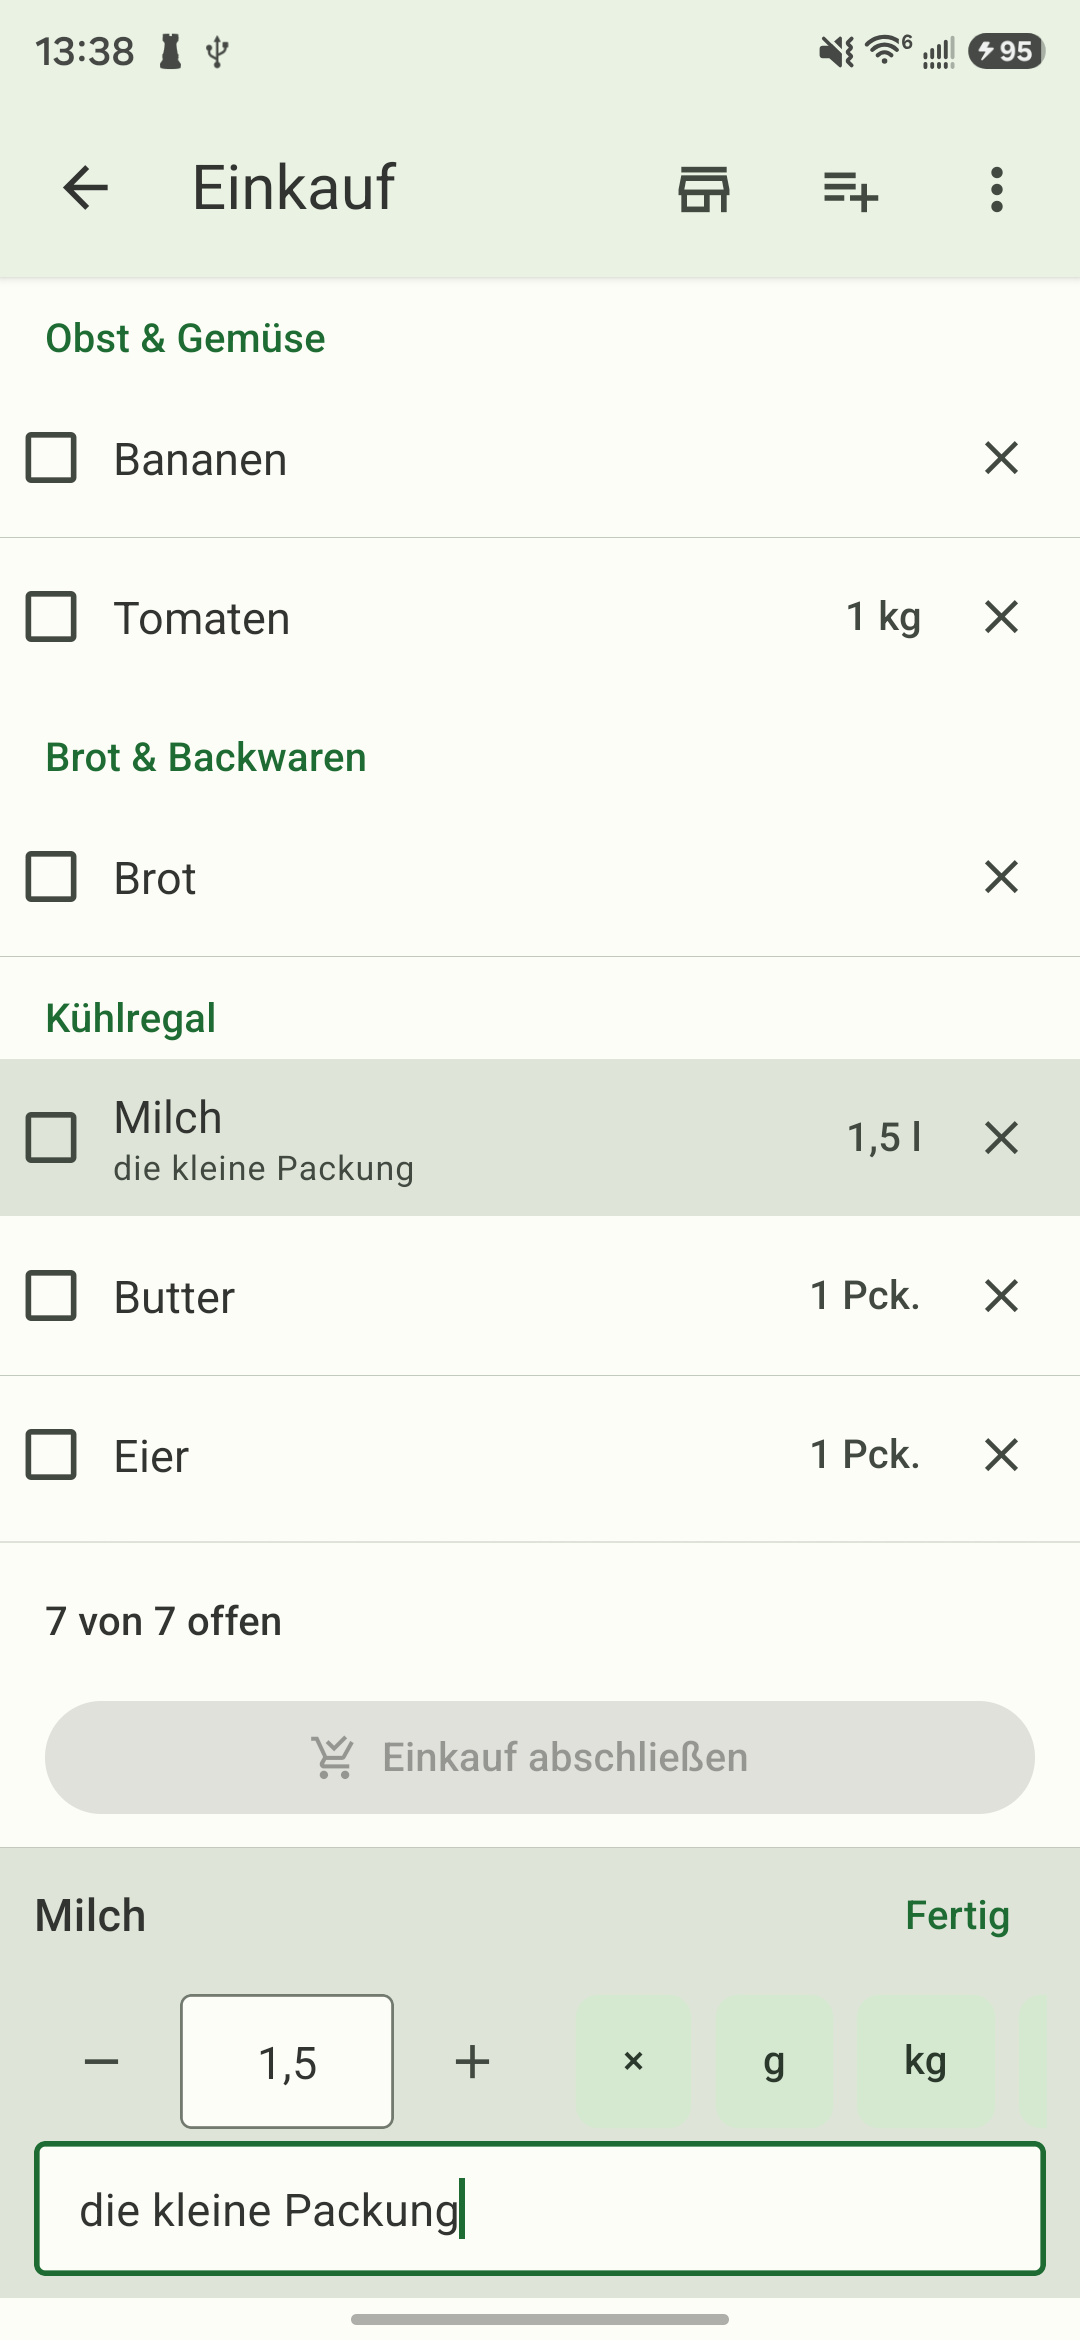
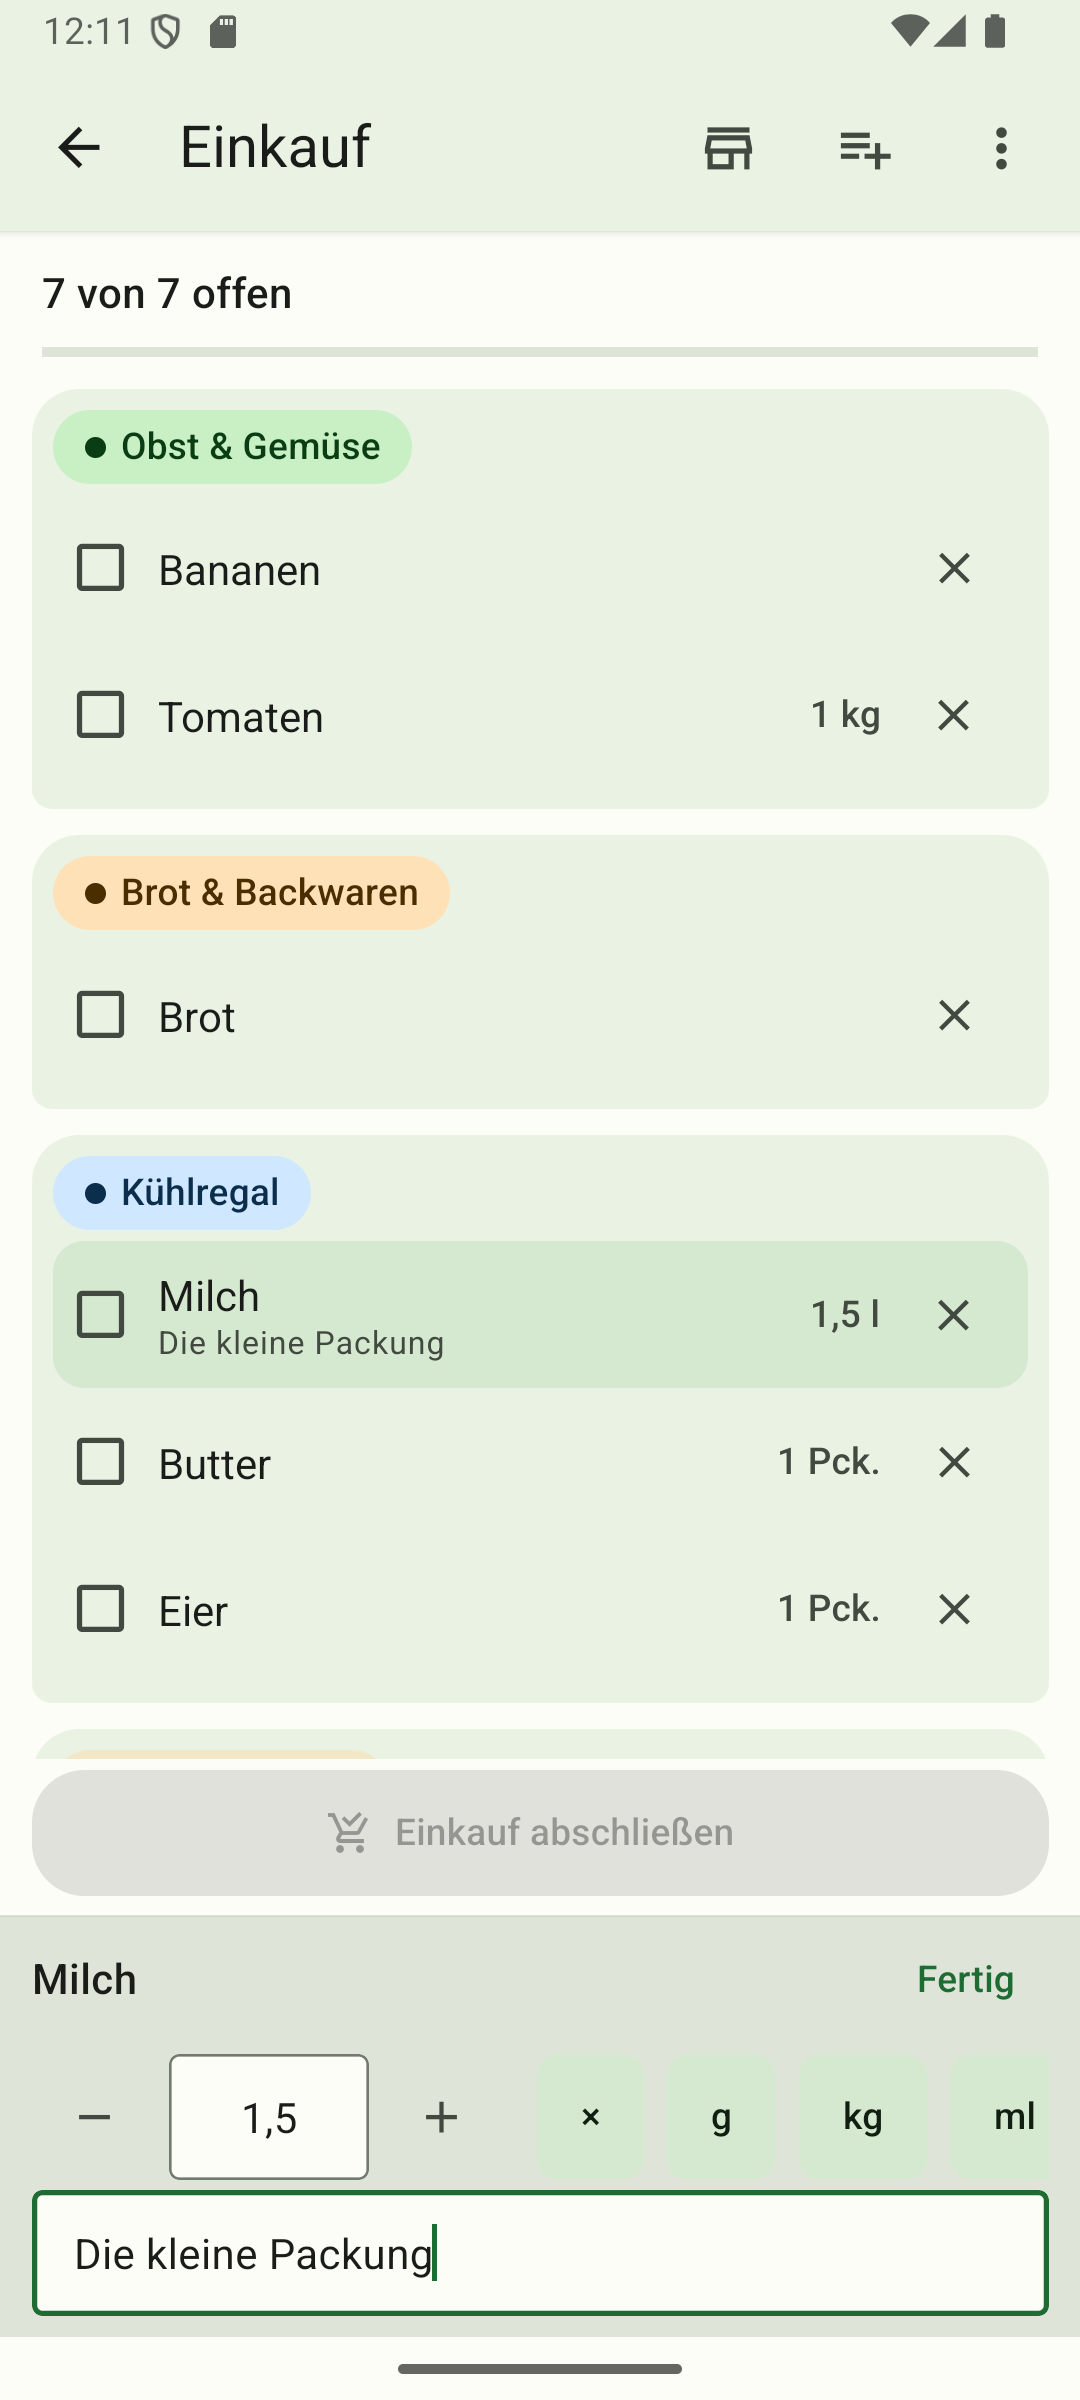
Neu-Knoepfe einheitlich orange, Store- und Onepager-Bilder im M18-Aussehen
- "Neues Gericht" und "Neues Produkt" tragen jetzt wie "Neue Liste" die
  Tertiaer-Rolle; ADR-049 nennt alle drei.
- store/: 18 neue Aufnahmen vom Emulator (1080 x 2400), neun hell und neun
  dunkel. Neu sind Vorrat (8) und Rezepte (9) - bisher zeigte kein Store-Bild
  die V2-Funktionen. store/screenshots.yaml nimmt beide mit auf und warnt
  davor, den Flow ohne --device laufen zu lassen, wenn das Telefon an adb
  haengt (clearState).
- docs/bilder/: alle Onepager-Bilder getauscht, drei neue in der Galerie
  (Uebersicht, Vorrat, Rezepte); Telefonrahmen auf 540/1200.
- store-eintrag.md: Quelle der Bilder, Auswahl-Empfehlung fuer die acht
  Plaetze im Play Store.

Gates: typecheck, lint, 562 Unit-Tests, 16/16 E2E-Flows auf dem Emulator.

diff --git a/docs/index.html b/docs/index.html
@@ -369,7 +369,7 @@
       .telefon {
         position: absolute;
         width: clamp(11rem, 20vw, 16rem);
-        aspect-ratio: 540 / 1170;
+        aspect-ratio: 540 / 1200;
         border-radius: 2rem;
         padding: 0.45rem;
         background: #0e100d;
@@ -1201,6 +1201,36 @@
                 />
               </div>
               <figcaption>Im Laden: abgehakt, mit Notiz</figcaption>
+            </figure>
+            <figure>
+              <div class="telefon">
+                <img
+                  src="bilder/uebersicht-hell.png"
+                  alt="Übersicht mit zwei Listen als Karten mit Farbleiste, heller Modus"
+                  loading="lazy"
+                />
+              </div>
+              <figcaption>Alle Listen, mit Farbleiste je Abteilung</figcaption>
+            </figure>
+            <figure>
+              <div class="telefon">
+                <img
+                  src="bilder/vorrat-hell.png"
+                  alt="Vorrat mit Abteilungen auf farbigen Flächen, heller Modus"
+                  loading="lazy"
+                />
+              </div>
+              <figcaption>Der Vorrat: was da ist, je Abteilung</figcaption>
+            </figure>
+            <figure>
+              <div class="telefon">
+                <img
+                  src="bilder/rezepte-dunkel.png"
+                  alt="Rezepte mit Schildern für fehlende Zutaten, dunkler Modus"
+                  loading="lazy"
+                />
+              </div>
+              <figcaption>Rezepte: was fehlt, steht dran</figcaption>
             </figure>
             <figure>
               <div class="telefon">

diff --git a/src/features/recipes/components/RecipesScreen.tsx b/src/features/recipes/components/RecipesScreen.tsx
@@ -619,7 +619,10 @@ export function RecipesScreen({ withParam }: Props) {
         accessibilityLabel={t('recipes.create')}
         onPress={() => router.push({ pathname: '/rezept', params: { recipeId: NEW_RECIPE_ID } })}
         testID="recipe-create"
-        style={styles.fab}
+        // Orange wie jeder "Neu"-Knopf (ADR-049): eine Farbe fuer "hier entsteht
+        // etwas", auf allen drei Screens dieselbe.
+        color={theme.colors.onTertiaryContainer}
+        style={[styles.fab, { backgroundColor: theme.colors.tertiaryContainer }]}
       />
 
       <Portal>

diff --git a/src/features/catalog/components/ProductsScreen.tsx b/src/features/catalog/components/ProductsScreen.tsx
@@ -265,7 +265,10 @@ export function ProductsScreen() {
           setDraft({ id: null, name: query, categoryId: FALLBACK_CATEGORY_ID, isStaple: false })
         }
         testID="product-create"
-        style={styles.fab}
+        // Orange wie jeder "Neu"-Knopf (ADR-049): eine Farbe fuer "hier entsteht
+        // etwas", auf allen drei Screens dieselbe.
+        color={theme.colors.onTertiaryContainer}
+        style={[styles.fab, { backgroundColor: theme.colors.tertiaryContainer }]}
       />
 
       <Portal>

diff --git a/docs/decisions.md b/docs/decisions.md
@@ -1088,7 +1088,7 @@ Nach drei Monaten täglicher Nutzung wünscht sich der Auftraggeber ein moderner
 **Entscheidung**
 1. **Kategoriefarben sind eine Erweiterung des Themes, keine Ausnahme von der Regel.** Sie liegen in `src/theme/categoryColors.ts` als zwölf Paare `container`/`onContainer`, hell und dunkel, für die zwölf Kategorien des Startkatalogs. Das Theme-Objekt bekommt ein Feld `categories`; Bildschirme holen sich die Farbe über `categoryColorFor(theme.categories, categoryId)`. **Kein Bildschirm schreibt einen eigenen Farbwert.** Unbekannte Kategorien (vom Nutzer angelegt) bekommen die Farbe von „Sonstiges".
 2. **Jedes Paar hat einen Kontrasttest** (≥ 4,5 : 1, WCAG AA, wie FR-7.4), hell und dunkel, als Unit-Test neben `contrast.test.ts`. Ein Paar, das den Test nicht besteht, wird nicht gebaut.
-3. **Die dritte Rolle (tertiary) wird Orange** statt des bisher ungenutzten Blaugrün. Sie ist reserviert für das Besondere: neue Liste, „Fehlt n" bei Rezepten, Wochenplan-Markierung. Ein Akzent, nicht zwei.
+3. **Die dritte Rolle (tertiary) wird Orange** statt des bisher ungenutzten Blaugrün. Sie ist reserviert für das Besondere: die drei „Neu"-Knöpfe (Liste, Gericht, Produkt), „fehlt" bei Rezepten, Wochenplan-Markierung. Ein Akzent, nicht zwei.
 4. **Kategoriefarben nur dort, wo Abteilungen die Struktur sind:** Liste, Vorrat, Listenkarten in der Übersicht. Rezepte bleiben bei Grün und Orange – dort ist die Frage „alles da?", nicht „welche Abteilung".
 5. **Flächen statt Linien.** Gruppen liegen auf leicht getönten Flächen (18 dp Rundung); Trennlinien entfallen. Der Fortschritt („5 von 7 offen" plus Balken) wandert in den Kopf der Liste, wo ihn die Tastatur nicht verdeckt. Erledigtes liegt in einer stillen Fläche am Ende.
 6. **Vorrat als farbige Gruppenflächen mit der Checkliste darin**, nicht als Kacheln wie in der Skizze: Die Kachel kann die Pflege von 200 Produkten nicht tragen. Der Kopf zeigt „23 da · 4 fehlen".

diff --git a/docs/store-eintrag.md b/docs/store-eintrag.md
@@ -114,8 +114,10 @@ Beide erzeugt von `store/grafiken.py` aus den Farben in `src/theme/index.ts`.
 
 ### Screenshots
 
-Aufgenommen auf dem Galaxy S24 (1080 × 2340), hergestellt von
-`store/screenshots.yaml`. Play verlangt mindestens zwei; die Reihenfolge unten
+Aufgenommen auf dem Emulator (Pixel-Profil, 1080 × 2400, Android 15) am
+16. November 2026 mit dem Aussehen aus M18, hergestellt von
+`store/screenshots.yaml`. Nicht mehr auf dem S24: Der Ablauf beginnt mit einem
+leeren Datenbestand, und das Telefon trägt echte Daten. Play verlangt mindestens zwei; die Reihenfolge unten
 erzählt eine Geschichte und ist die empfohlene.
 
 | # | Datei | Was es zeigt |
@@ -127,13 +129,18 @@ erzählt eine Geschichte und ist die empfohlene.
 | 5 | `screenshot-5-uebersicht.png` | Mehrere Listen nebeneinander |
 | 6 | `screenshot-6-katalog.png` | Der mitgelieferte Produktkatalog |
 | 7 | `screenshot-7-vorschlaege.png` | Nach dem Einkauf: die üblichen Verdächtigen |
+| 8 | `screenshot-8-vorrat.png` | Der Vorrat, nach dem Einkauf gefüllt |
+| 9 | `screenshot-9-rezepte.png` | Rezepte mit „fehlt"-Schildern aus dem Vorrat |
 
-Dieselben sieben im Dunkelmodus als `dunkel-*.png`. Für den Store reicht ein
+Play nimmt höchstens acht Telefonbilder. Empfehlung: 1, 3, 5, 8, 9, 2, 4, 7 –
+Bild 6 (Katalog) bleibt draußen.
+
+Dieselben neun im Dunkelmodus als `dunkel-*.png`. Für den Store reicht ein
 Satz – der helle wirkt im Play Store freundlicher. Der dunkle liegt bei, weil
 er beweist, dass FR-7.2 hält.
 
-> **Falls die Console die Seitenverhältnisse bemängelt:** Das S24 nimmt mit
-> 1:2,17 auf, Google dokumentiert 9:16 bis 16:9. In der Praxis nimmt die
+> **Falls die Console die Seitenverhältnisse bemängelt:** Der Emulator nimmt mit
+> 1:2,22 auf, Google dokumentiert 9:16 bis 16:9. In der Praxis nimmt die
 > Console hohe Telefonbilder an. Sollte sie hier zicken, sind die Bilder mit
 > Rändern auf 1080 × 1920 zu bringen – sagen, dann mache ich das.
 
